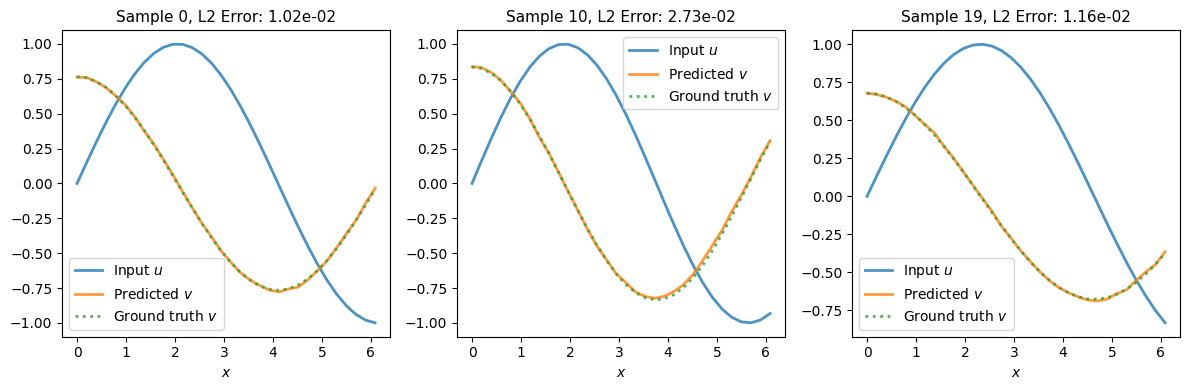
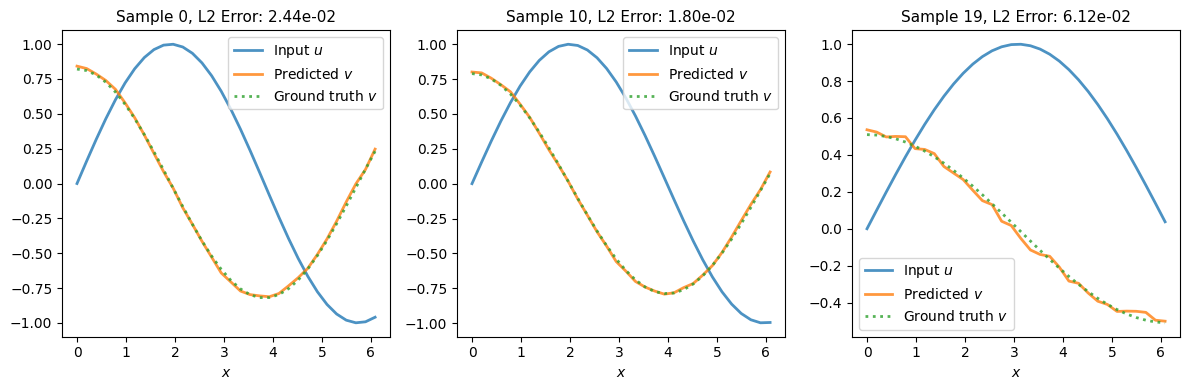
Updated fno tutorial images

diff --git a/docs/tutorials/learning_antiderivative.md b/docs/tutorials/learning_antiderivative.md
@@ -133,8 +133,6 @@ Create an FNO1D model instance:
 from flax import nnx
 import jax_fno
 
-key = jax.random.key(42)
-
 model = jax_fno.FNO1D(
     key,
     input_dim=2,            # [u(x), x]
@@ -221,7 +219,7 @@ test_iter = DatasetIterator(
     test_ds, batch_size=batch_size, shuffle=False
 )
 
-shuffle_key = jax.random.key(42)
+shuffle_key = jax.random.key(0)
 
 for epoch in range(1, n_epochs + 1):
     # Training
